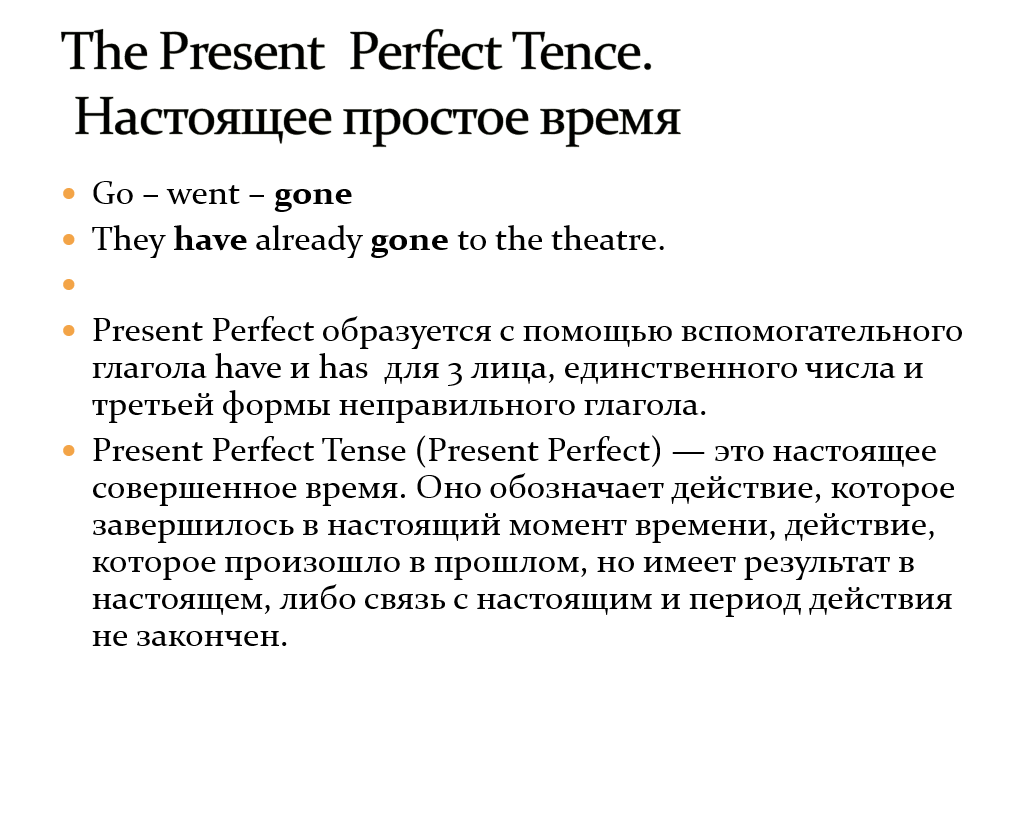
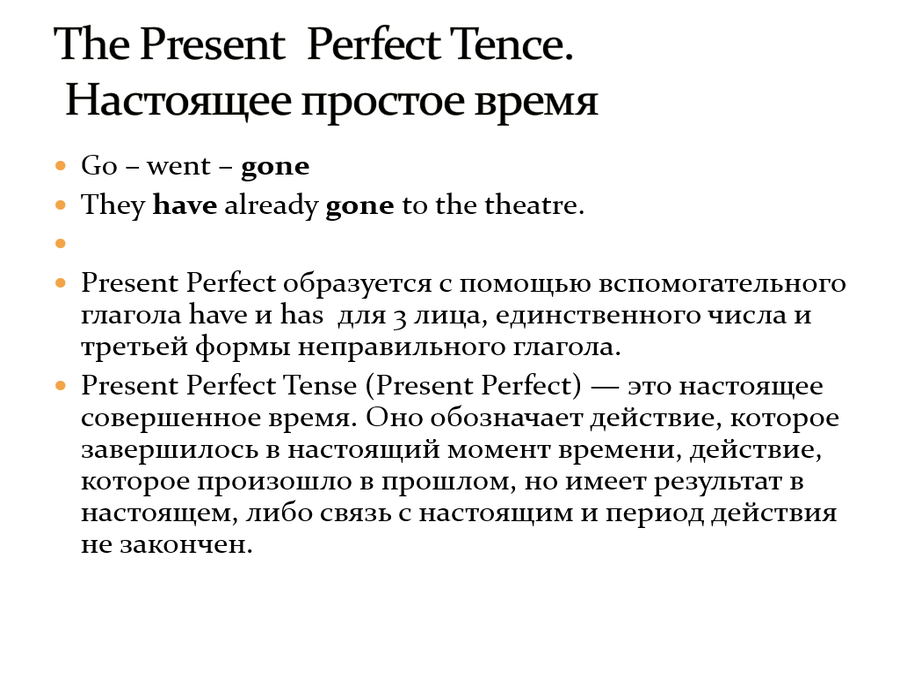
added/updated new windows

diff --git a/windows/presentPerfect.py b/windows/presentPerfect.py
@@ -1,0 +1,26 @@
+from PyQt5.QtWidgets import QApplication, QWidget, QPushButton, QVBoxLayout, QLabel, QLineEdit
+from PyQt5.QtGui import QFont,QIcon,QPixmap
+from PyQt5.QtCore import Qt,QSize
+
+window_size = [900,700]
+
+class presentPerfect(QWidget):
+    def __init__(self):
+        super().__init__()
+        self.initUI()
+
+    def initUI(self):
+        self.setWindowTitle("Памятка Present Perfect")
+        self.setFixedSize(window_size[0],window_size[1])
+        self.setWindowFlags(Qt.FramelessWindowHint)
+        self.label = QLabel(self)
+        pixmap = QPixmap("resources/PPT.png")
+        scaled_pixmap = pixmap.scaled(window_size[0], window_size[1], Qt.AspectRatioMode.KeepAspectRatio, Qt.TransformationMode.SmoothTransformation)
+        self.label.setPixmap(scaled_pixmap)
+
+        self.closeButton=QPushButton(self)
+        self.closeButton.setGeometry(window_size[0]-80,window_size[1]-80,70,70)
+        self.closeButton.setIcon(QIcon("resources/button_close.png"))
+        self.closeButton.setIconSize(QSize(70,70))
+        self.closeButton.clicked.connect(self.close)
+        self.closeButton.setStyleSheet("""QPushButton{border:0;}""")

diff --git a/windows/presentSimple.py b/windows/presentSimple.py
@@ -1,0 +1,26 @@
+from PyQt5.QtWidgets import QApplication, QWidget, QPushButton, QVBoxLayout, QLabel, QLineEdit
+from PyQt5.QtGui import QFont,QIcon,QPixmap
+from PyQt5.QtCore import Qt,QSize
+
+window_size = [900,700]
+
+class presentSimple(QWidget):
+    def __init__(self):
+        super().__init__()
+        self.initUI()
+
+    def initUI(self):
+        self.setWindowTitle("Памятка Present Simple")
+        self.setFixedSize(window_size[0],window_size[1])
+        self.setWindowFlags(Qt.FramelessWindowHint)
+        self.label = QLabel(self)
+        pixmap = QPixmap("resources/PST.png")
+        scaled_pixmap = pixmap.scaled(window_size[0], window_size[1], Qt.AspectRatioMode.KeepAspectRatio, Qt.TransformationMode.SmoothTransformation)
+        self.label.setPixmap(scaled_pixmap)
+
+        self.closeButton=QPushButton(self)
+        self.closeButton.setGeometry(window_size[0]-80,window_size[1]-80,70,70)
+        self.closeButton.setIcon(QIcon("resources/button_close.png"))
+        self.closeButton.setIconSize(QSize(70,70))
+        self.closeButton.clicked.connect(self.close)
+        self.closeButton.setStyleSheet("""QPushButton{border:0;}""")

diff --git a/windows/pastSimple.py b/windows/pastSimple.py
@@ -1,0 +1,26 @@
+from PyQt5.QtWidgets import QApplication, QWidget, QPushButton, QVBoxLayout, QLabel, QLineEdit
+from PyQt5.QtGui import QFont,QIcon,QPixmap
+from PyQt5.QtCore import Qt,QSize
+
+window_size = [900,700]
+
+class pastSimple(QWidget):
+    def __init__(self):
+        super().__init__()
+        self.initUI()
+
+    def initUI(self):
+        self.setWindowTitle("Памятка Past Simple")
+        self.setFixedSize(window_size[0],window_size[1])
+        self.setWindowFlags(Qt.FramelessWindowHint)
+        self.label = QLabel(self)
+        pixmap = QPixmap("resources/PastSt.png")
+        scaled_pixmap = pixmap.scaled(window_size[0], window_size[1], Qt.AspectRatioMode.KeepAspectRatio, Qt.TransformationMode.SmoothTransformation)
+        self.label.setPixmap(scaled_pixmap)
+
+        self.closeButton=QPushButton(self)
+        self.closeButton.setGeometry(window_size[0]-80,window_size[1]-80,70,70)
+        self.closeButton.setIcon(QIcon("resources/button_close.png"))
+        self.closeButton.setIconSize(QSize(70,70))
+        self.closeButton.clicked.connect(self.close)
+        self.closeButton.setStyleSheet("""QPushButton{border:0;}""")

diff --git a/main.py b/main.py
@@ -6,6 +6,9 @@ from static.window import *
 from static.styles import *
 from windows.verbHelp import *
 from windows.mixed_window import *
+from windows.pastSimple import *
+from windows.presentSimple import *
+from windows.presentPerfect import *
 
 
 class InfinitiveWindow(QWidget):
@@ -91,15 +94,15 @@ class MainApp(QWidget):
         self.mixedWindow.show()
         
     def openPresentSimple(self):
-        self.presentSimpleWindow = ...
+        self.presentSimpleWindow = presentSimple()
         self.presentSimpleWindow.show()
 
     def openPastSimple(self):
-        self.pastSimpleWindow = ...
+        self.pastSimpleWindow = pastSimple()
         self.pastSimpleWindow.show()
     
     def openPresentPerfect(self):
-        self.presentPerfectWindow = ...
+        self.presentPerfectWindow = presentPerfect()
         self.presentPerfectWindow.show()
 
 if __name__ == '__main__':
